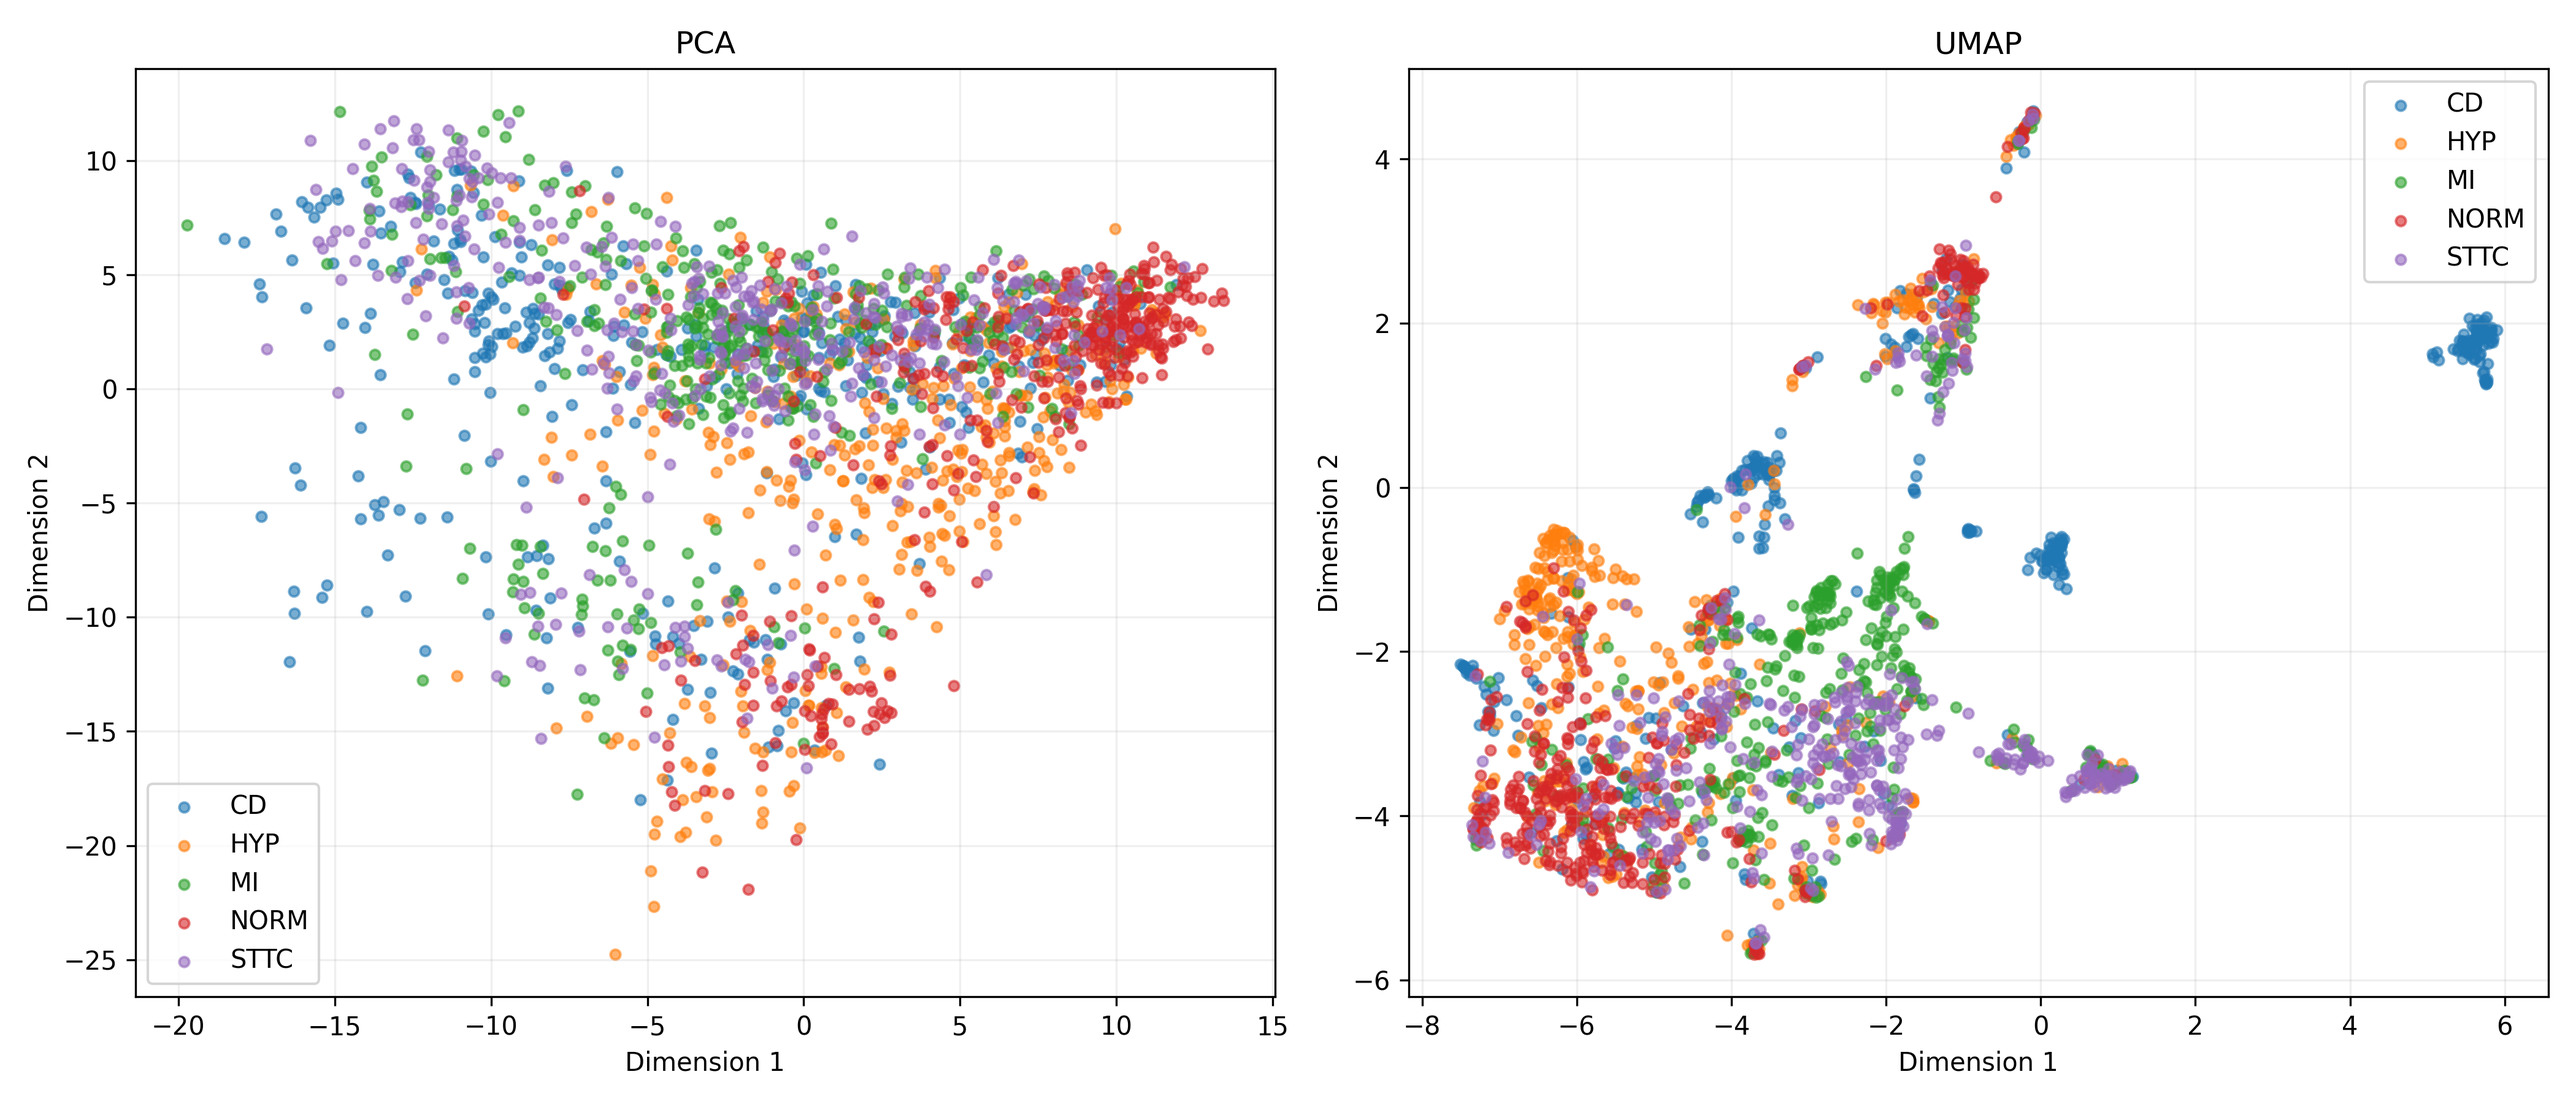
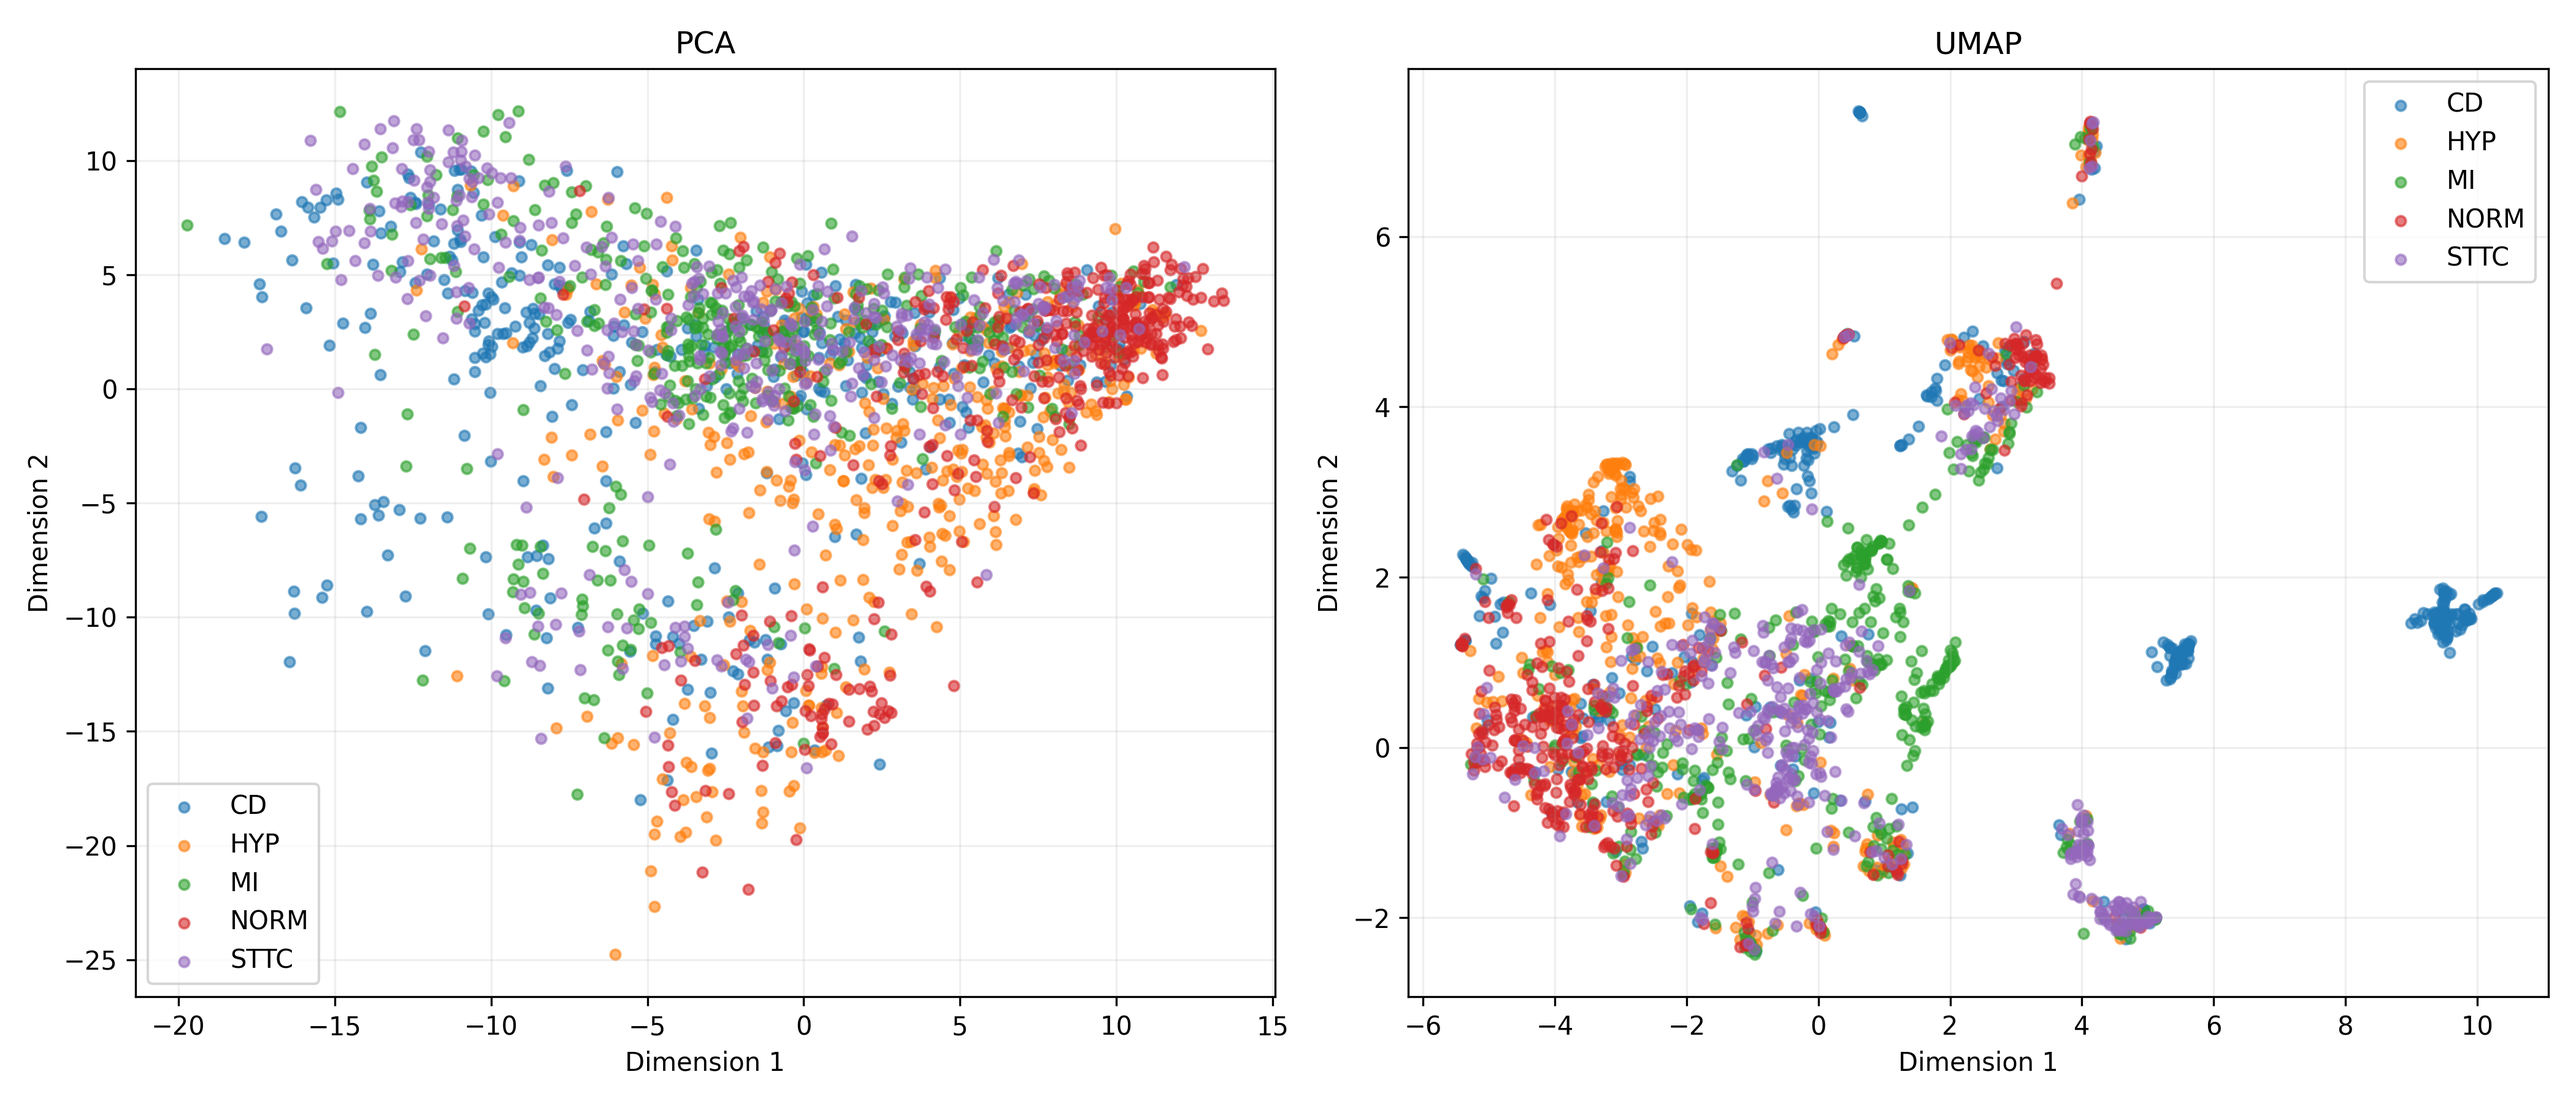
havard branch implement using supergroups

diff --git a/analyze_embeddings.py b/analyze_embeddings.py
@@ -42,7 +42,7 @@ X_pca = pca.fit_transform(Z)
 
 reducer = umap.UMAP(
     n_components=2,
-    n_neighbors=30,
+    n_neighbors=15,
     min_dist=0.1,
     random_state=42
 )
